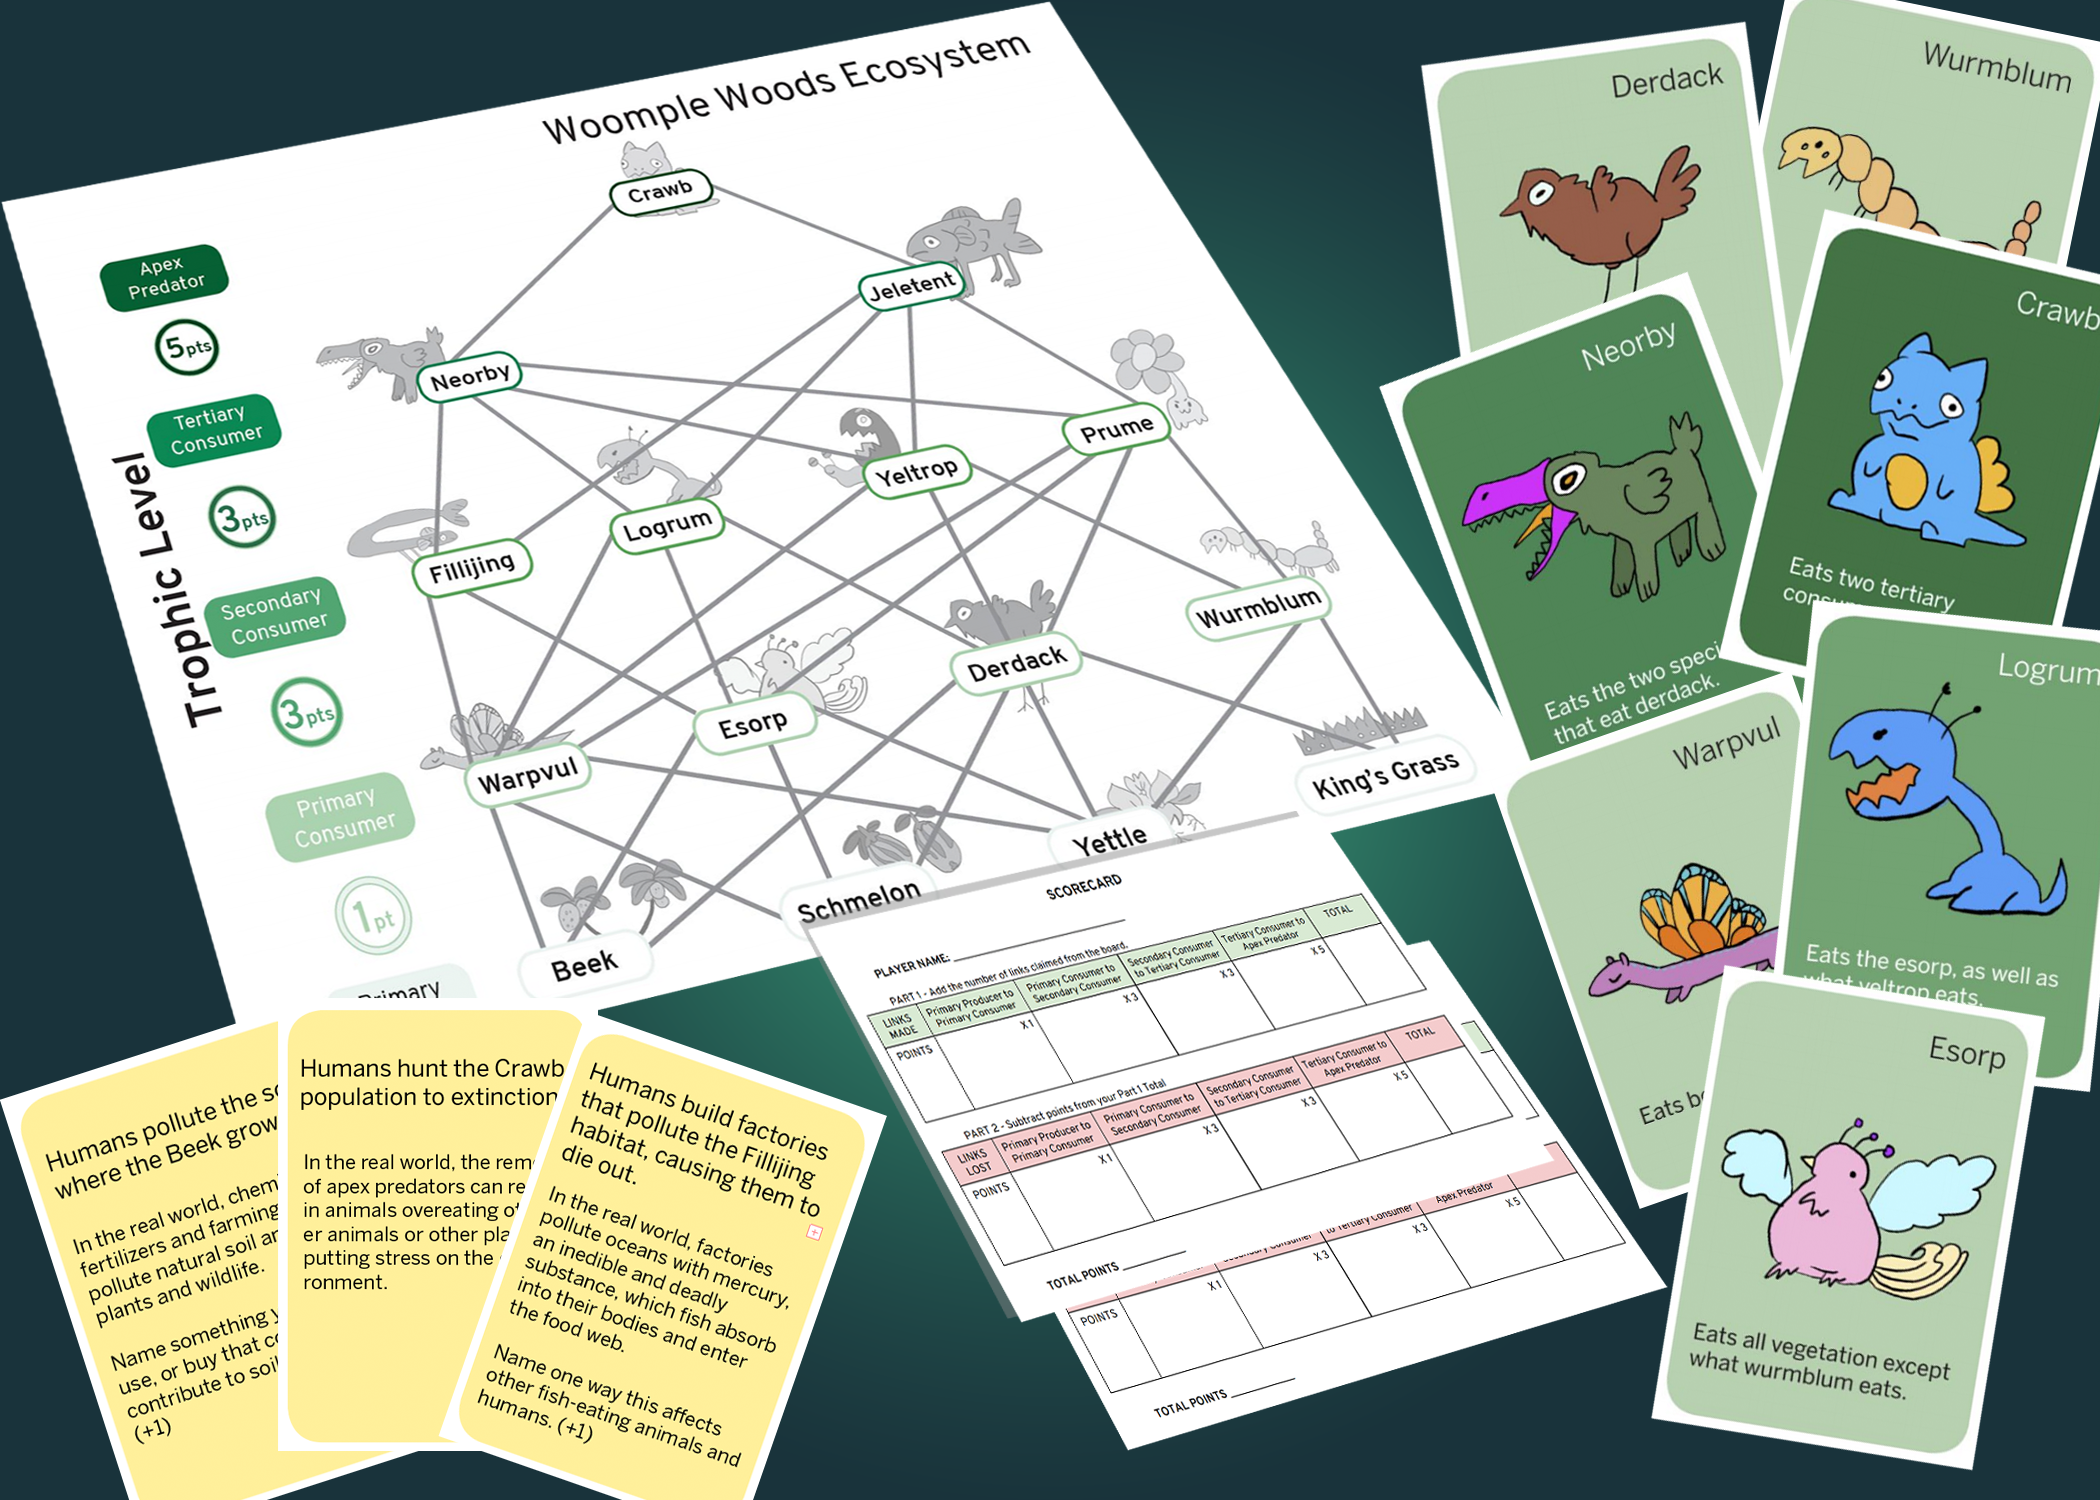
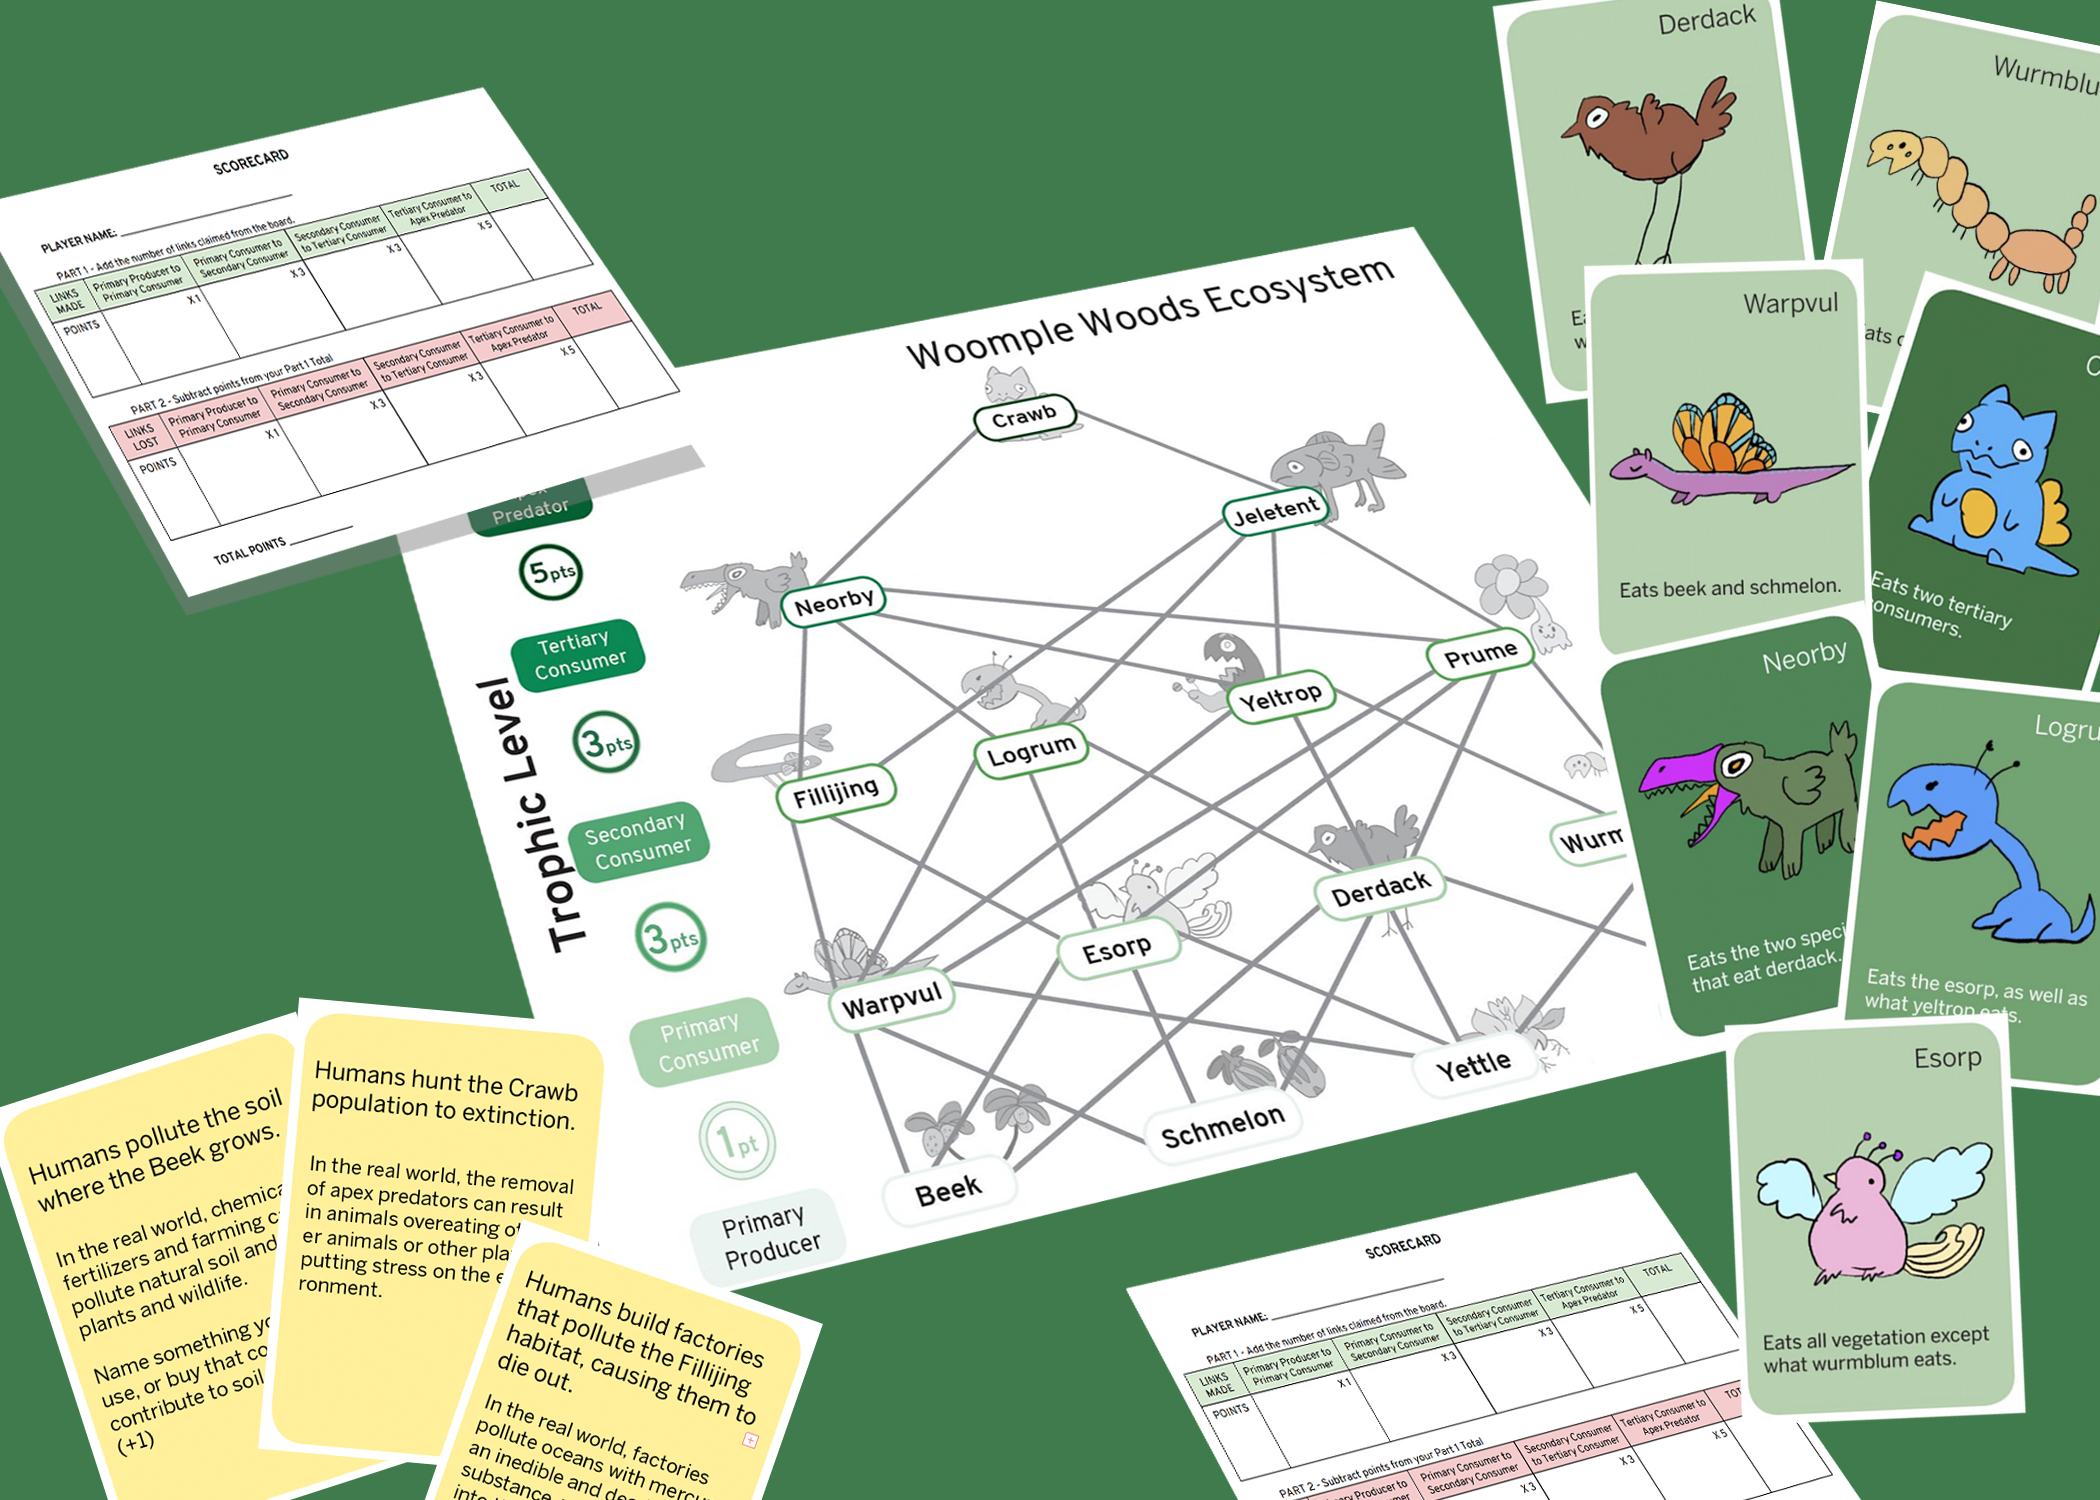
feeding frenzy edit

diff --git a/feeding-frenzy.html b/feeding-frenzy.html
@@ -57,7 +57,7 @@
     	<h1><a name="overview"></a>Feeding Frenzy Game</h1>
 		<p>I worked in a team of two to create Feeding Frenzy, an educational board game that teaches about trophic interactions in food webs and the impact of human activities on the ecosystem.</p>
 		<div class="img-container">
-			<img src="images/feeding-frenzy/expo.jpg" alt="final game expo">
+			<img src="images/feeding-frenzy/mockup-feedingfrenzy.png" alt="final game design">
 		</div>
 		<p>Our game contains two parts; In Part 1, 2-4 players piece together the strange creatures of Woomple Woods and figure out who eats who in this fictional ecosystem while competing to claim as many correct links between species as possible. In Part 2, players explore the impact of human activities on their constructed web of animals and how these effects translate to the real world.</p>
 
@@ -73,6 +73,9 @@
 		<h2><a name="process"></a>Process</h2>
 
 		<p>In Designing for Educational Games, we were tasked with designing a successful educational game in terms of the EDGE framework. The EDGE framework assesses the educational potential of a game by integrating game theory (mechanics-dynamics-aesthetics), learning science principles, and clearly defined educational goals. The process was highly complex as we needed to consider all components of the framework throughout.</p>
+		<div class="img-container">
+			<img src="images/feeding-frenzy/edge.png" alt="the edge framework: an integration of the triad: educational objectives, learning science principles, and mechanics-dynamics-aesthetics of game theory">
+		</div>
 
 		<p>We began by generating ideas for an educational game in terms of the educational goal component of the EDGE framework. We decided on a cellular respiration game for all ages, and started to think up core mechanics for our game for the initial project pitch and peer feedback.</p>
 		<p>After further research about the process of cellular respiration and thinking through various mechanics, we foresaw that the domain space of cellular respiration would make for an ineffective learning game due to the level of technical and content knowledge that the topic involves. This would make transfer of skills/knowledge from the game context to real life difficult as well.</p>

diff --git a/shfit.html b/shfit.html
@@ -46,8 +46,12 @@
     <main class="casestudy-container">
     	<div class="casestudy-content">
     	
-    	<h1><a name="overview"></a>SHFIT App</h1>
-        <p>While flexibility in scheduling and work hours is growing more popular in the workspace, swapping shifts amongst employees can be a disorganized process. The Shfit app addresses the issues of matching skill level, communication, and confusion in scheduling and exchanging shifts amongst gym employees by streamlining shift swapping, scheduling, and communication amongst employees and managers in one virtual space.</p>
+    	<h1><a name="overview"></a>Shfit</h1>
+        <p>While flexibility in scheduling and work hours is growing more popular in the workspace, swapping shifts amongst employees can be a disorganized process.</p>
+        <div class="img-container">
+            <img src="images/shfit/shfit-mock.png">
+        </div>
+        <p>The Shfit app addresses the issues of matching skill level, communication, and confusion in scheduling and exchanging shifts amongst gym employees by streamlining shift swapping, scheduling, and communication amongst employees and managers in one virtual space.</p>
 
     	<h2>Introduction</h2>
     	<p>Our team (Course: Interaction Design Overview, HCII CMU) was tasked to design a native mobile app in a funnel design process to allow for better shift swapping amongst employees. </p>

diff --git a/css/style.css b/css/style.css
@@ -5,8 +5,10 @@ html, body {
   padding: 0;
   border: 0;
   font-style: none;
+
   font: inherit;
   vertical-align: baseline;
+  
   color: #424242;
   overflow-x: hidden;
   font-family: proxima-nova, sans-serif;
